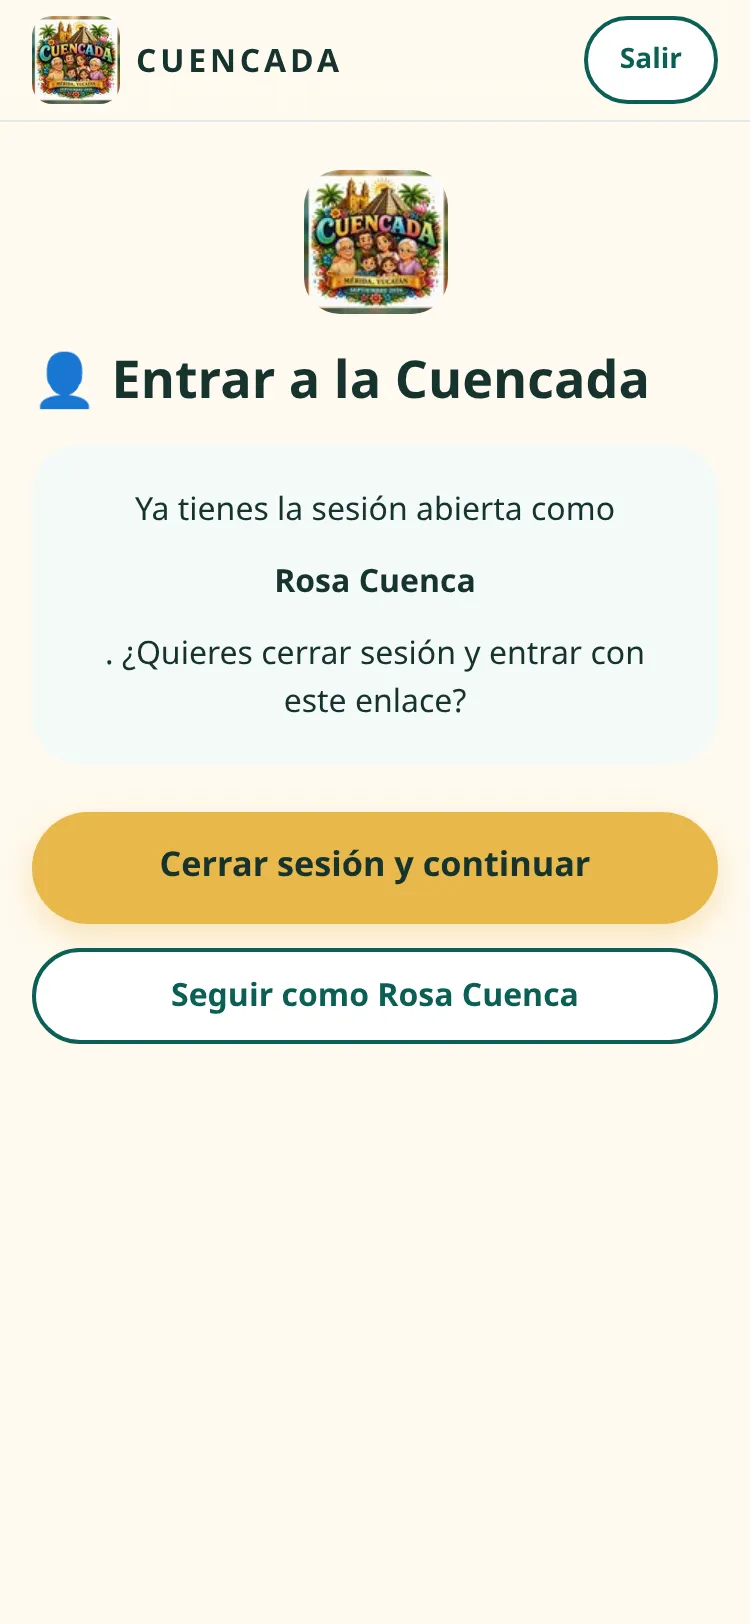
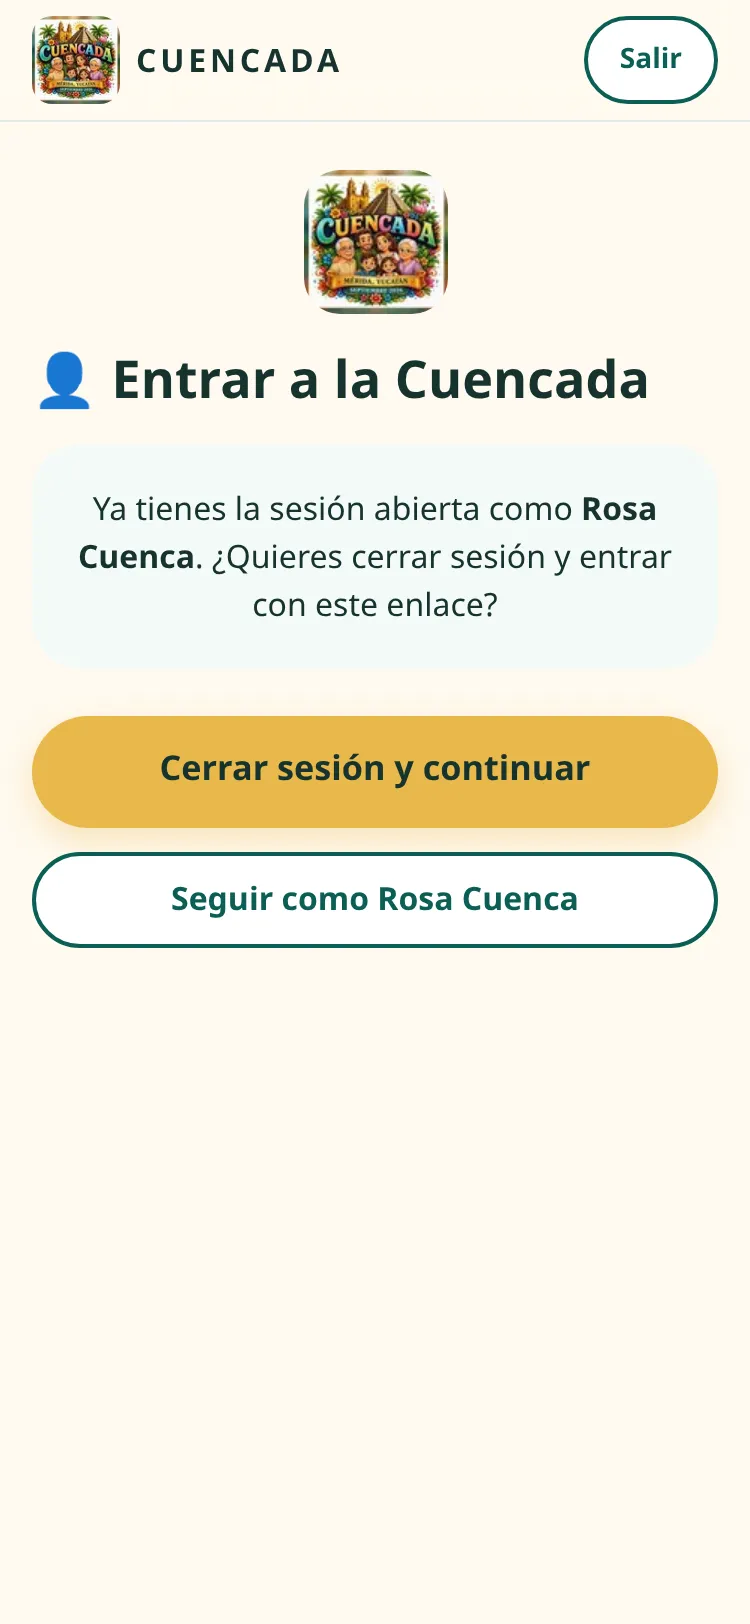
T1-FE: keep the session notice on one paragraph; re-take sesion-abierta
`.notice` is a grid, so a bare sentence with <strong> split into rows
("…como" / "Rosa Cuenca" / ". ¿Quieres…"). Wrap the text in an inner <p>
in SessionConflict (magic link, invite, reset) and in the /verificar
logged-in notice. Screenshots re-taken; 0 px overflow at 320/375/1280.

Claude-Session: https://claude.ai/code/session_01Bj2xLmagfFJ5w53HEUn9Sj

Changed region(s): [[0.0307, 0.3079, 0.9813, 0.6466]]

diff --git a/apps/web/src/features/auth/pages/VerifyEmailPage.tsx b/apps/web/src/features/auth/pages/VerifyEmailPage.tsx
@@ -98,10 +98,12 @@ export function VerifyEmailPage(): ReactNode {
   return (
     <AuthLayout title="Verificar correo" icon="✉" lead="Toca el botón para confirmar que este correo es tuyo.">
       {gate === "conflict" ? (
-        <p className={styles.notice}>
-          Tienes la sesión abierta como <strong translate="no">{user?.displayName ?? "otra cuenta"}</strong>. Confirmar este enlace no cambia
-          tu sesión.
-        </p>
+        <div className={styles.notice}>
+          <p>
+            Tienes la sesión abierta como <strong translate="no">{user?.displayName ?? "otra cuenta"}</strong>. Confirmar este enlace no cambia
+            tu sesión.
+          </p>
+        </div>
       ) : null}
       <div className={styles.actions}>
         <Button fullWidth size="lg" onClick={verify}>

diff --git a/apps/web/src/features/auth/components/SessionConflict.tsx b/apps/web/src/features/auth/components/SessionConflict.tsx
@@ -82,9 +82,12 @@ export function SessionConflict({ title, action, onLoggedOut, onKeep }: SessionC
 
   return (
     <AuthLayout title={title} icon="👤">
-      <p className={styles.notice}>
-        Ya tienes la sesión abierta como <strong translate="no">{name}</strong>. ¿Quieres cerrar sesión y {action}?
-      </p>
+      {/* Inner <p>: `.notice` is a grid, which would split the text and <strong> into rows. */}
+      <div className={styles.notice}>
+        <p>
+          Ya tienes la sesión abierta como <strong translate="no">{name}</strong>. ¿Quieres cerrar sesión y {action}?
+        </p>
+      </div>
       <div className={styles.actions}>
         <Button fullWidth size="lg" loading={leaving} onClick={onSwitch}>
           Cerrar sesión y continuar
